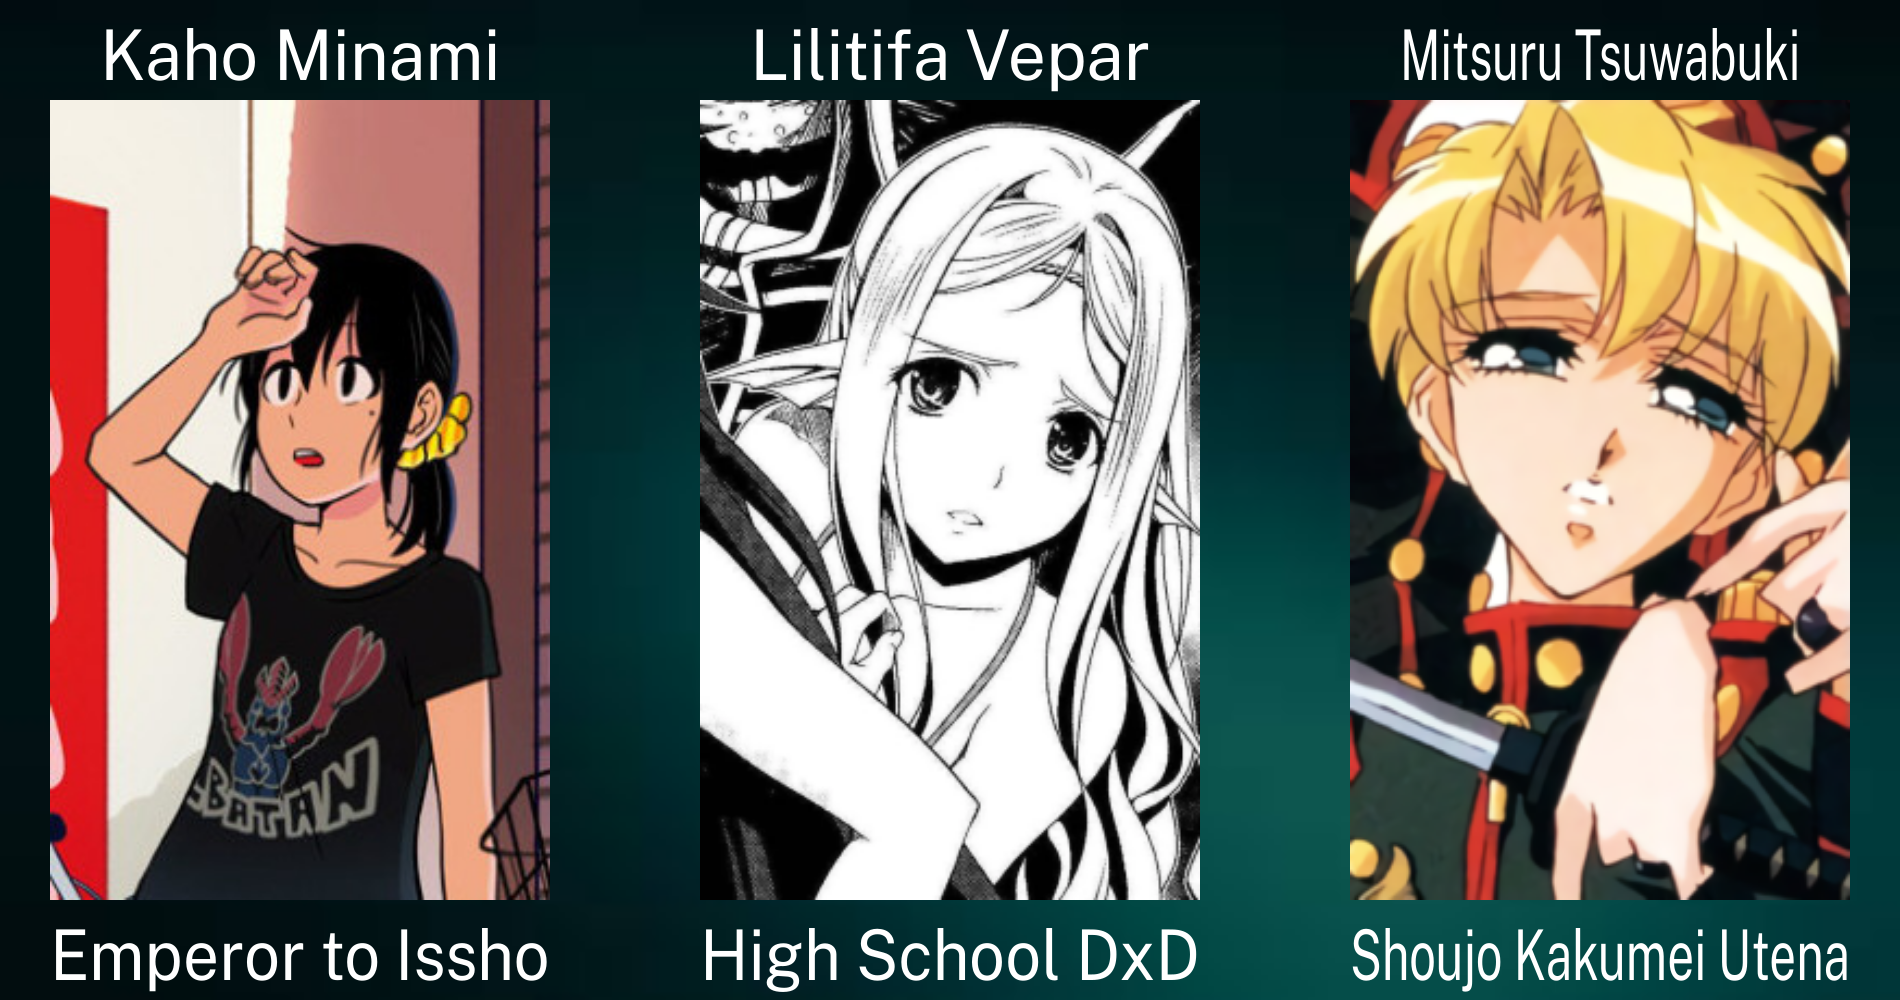
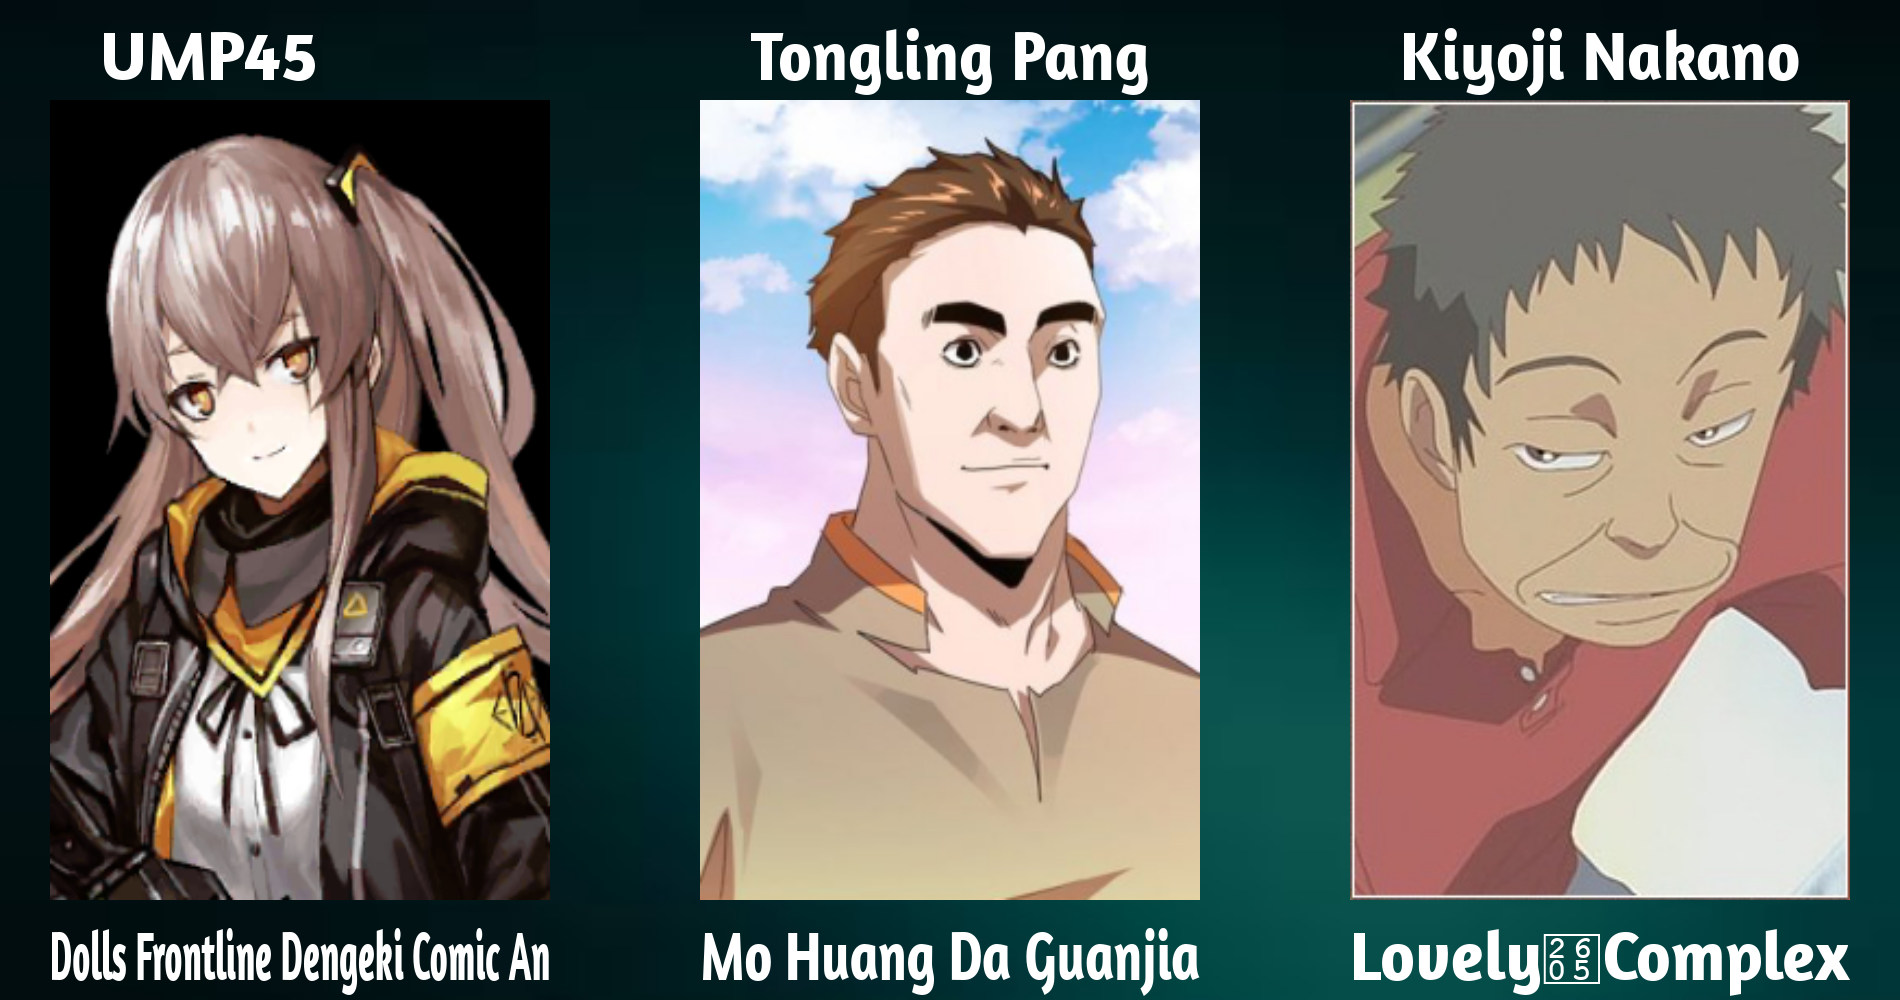
New Fonts Style in Drop and Drop CD improved

diff --git a/index.js b/index.js
@@ -70,10 +70,9 @@ ${aspas}`)
         return (card.searchLastCard(client, message))
     }
 
-    if (command === 'drop' || command === 'd' && !talkedRecently.has(message.author.id)) {
+    if (command === 'drop' || command === 'd') {
         if (talkedRecently.has(message.author.id) && message.author.id != '212640369261674496') {
-            let aspas = "`"
-            message.channel.send(`Espere ${aspas}3${aspas} minutos antes de usar o comando denovo - <@${message.author.id}>`)
+            await player.getPlayerCooldown(message);
             return
         } else {
             if (message.author.id != '212640369261674496') {
@@ -82,7 +81,7 @@ ${aspas}`)
                     setTimeout(() => {
                         // Removes the user from the set after a minute
                         talkedRecently.delete(message.author.id);
-                    }, 180000);
+                    }, 509000);
             try {
                 console.log(`${message.author.tag} is dropping.`)
                 await mal.zeraDrop()
@@ -101,7 +100,7 @@ ${aspas}`)
                     sendMessage.react("2⃣")
                     sendMessage.react("3⃣")
                     const filter = (reaction, user) => ["1⃣", "2⃣", "3⃣"].includes(reaction.emoji.name) && user.id == message.author.id && user.id != '889885729273020516';
-                    const collector = sendMessage.createReactionCollector({ filter, max: 4, time: 20000 });
+                    const collector = sendMessage.createReactionCollector({ filter, max: 1, time: 20000 });
                     var today = new Date();
 
                     var date = today.getDate() + '-' + (today.getMonth() + 1) + '-' + today.getFullYear();
@@ -207,11 +206,12 @@ ${aspas}`)
                     }, 20000)
                     if (message.author.id != '212640369261674496') {
                     talkedRecently.add(message.author.id);
+                    return player.updatePlayerCooldown(message);
                     }
                     setTimeout(() => {
                         // Removes the user from the set after a minute
                         talkedRecently.delete(message.author.id);
-                    }, 180000);
+                    }, 509000);
                 })
             } catch (e) {
                 console.log(e)
@@ -219,9 +219,9 @@ ${aspas}`)
             }
         }
     } 
-    if (command === 'drop' || command === 'd' && talkedRecently.has(message.author.id)) {
-        let aspas = "`"
-        return message.channel.send(`Espere ${aspas}3${aspas} minutos antes de usar o comando denovo - <@${message.author.id}>`)
+    if (command === 'cd') {
+        await player.getPlayerCooldown(message);
+        return
     }
 
     if (command === 'collection' || command === 'c') {

diff --git a/scripts/player.js b/scripts/player.js
@@ -744,6 +744,54 @@ const useItem = async function (cardId, itemId, message) {
   })
 }
 
+const getPlayerCooldown = async function (message) {
+    Data.findOne(
+    {
+      userID: message.author.id,
+    }, (err, data) => {
+      if (err)console.log(err);
+      if (!data) {
+        const newData = new Data({
+          userID: message.author.id,
+          lb: "all",
+          money: 0,
+          star: 0,
+          daily: 0,
+        });
+        newData.save().catch((err) => console.log(err));
+        return
+      }
+      if(data.cooldownDrop) {
+        let aspas = "`";
+        if(Math.abs((data.cooldownDrop - Math.round(new Date().getTime()/1000))) >= 60) {
+          message.channel.send(`Espere ${aspas}${10 - (Math.ceil(Math.abs((data.cooldownDrop - Math.round(new Date().getTime()/1000)))/60))}${aspas} minutos antes de dropar mais cartas - <@${message.author.id}>`)
+        } else {
+          return message.channel.send(`Espere ${aspas}10${aspas} minutos antes de dropar mais cartas - <@${message.author.id}>`)
+        }
+      } else {
+          return message.channel.send(`Espere ${aspas}10${aspas} minutos antes de dropar mais cartas - <@${message.author.id}>`)
+      }
+    })
+}
+
+const updatePlayerCooldown = async function (message) {
+  Data.updateOne(
+    {
+      userID: message.author.id,
+    },
+    {
+      cooldownDrop: Math.round(new Date().getTime()/1000)
+    },
+    function (err, docs) {
+      if (err) {
+        console.log(err);
+      } else {
+        console.log("Updated Docs : ", docs);
+      }
+    }
+  );
+  return
+}
     // Data.findOneAndUpdate({
     //     userID: player.id
     // }, (err, data) => {
@@ -764,7 +812,9 @@ const useItem = async function (cardId, itemId, message) {
     //         message.reply(`${player.username} tem :moneybag: ${data.money} gold.`)
 
     // })
-    module.exports.multiBurnCards = multiBurnCards
+    module.exports.updatePlayerCooldown = updatePlayerCooldown;
+    module.exports.getPlayerCooldown = getPlayerCooldown;
+    module.exports.multiBurnCards = multiBurnCards;
     module.exports.useItem = useItem;
     module.exports.searchPlayerItems = searchPlayerItems;
     module.exports.showItemInfo = showItemInfo;

diff --git a/scripts/cards.js b/scripts/cards.js
@@ -296,7 +296,7 @@ const searchCardCollection = (id, pageNumber = '1', message, keyWord = 'this is 
 
 const createDropTemplate = async (drop) => {
     const canvas = createCanvas(1900, 1000)
-    registerFont('./custom-fonts/PublicSans-Regular.otf', { family: 'Public Sans' })
+    registerFont('./custom-fonts/Amaranth-Bold.ttf', { family: 'Amaranth' })
     const ctx = canvas.getContext('2d')
 
     ctx.drawImage(await loadImage('images/background2.jpg'), null, null, 1900, 1000)
@@ -304,7 +304,7 @@ const createDropTemplate = async (drop) => {
     ctx.drawImage(await loadImage(drop[0][1].img), 700, 100, 500, 800)
     ctx.drawImage(await loadImage(drop[0][2].img), 1350, 100, 500, 800)
 
-    ctx.font = '70px Public Sans'
+    ctx.font = '70px Amaranth'
     ctx.fillStyle = "#FFFFFF";
 
     var fullName =  drop[0][0].char
@@ -318,9 +318,9 @@ const createDropTemplate = async (drop) => {
     ctx.fillText(fullName, 1400, 80, 400)
 
 
-    ctx.fillText(drop[0][0].title, 50, 980, 500)
-    ctx.fillText(drop[0][1].title, 700, 980, 500)
-    ctx.fillText(drop[0][2].title, 1350, 980, 500)
+    ctx.fillText(drop[0][0].title.substr(0,32), 50, 980, 500)
+    ctx.fillText(drop[0][1].title.substr(0,32), 700, 980, 500)
+    ctx.fillText(drop[0][2].title.substr(0,32), 1350, 980, 500)
 
     const buffer = canvas.toBuffer('image/png')
     fs.writeFileSync(__dirname + '/drop.png', buffer)

diff --git a/models/data.js b/models/data.js
@@ -6,7 +6,8 @@ const dataSchema = mongoose.Schema({
     lb: String,
     money: String,
     star: String,
-    daily: String
+    daily: String,
+    cooldownDrop: String
 })
 
 module.exports = mongoose.model("Data", dataSchema);
